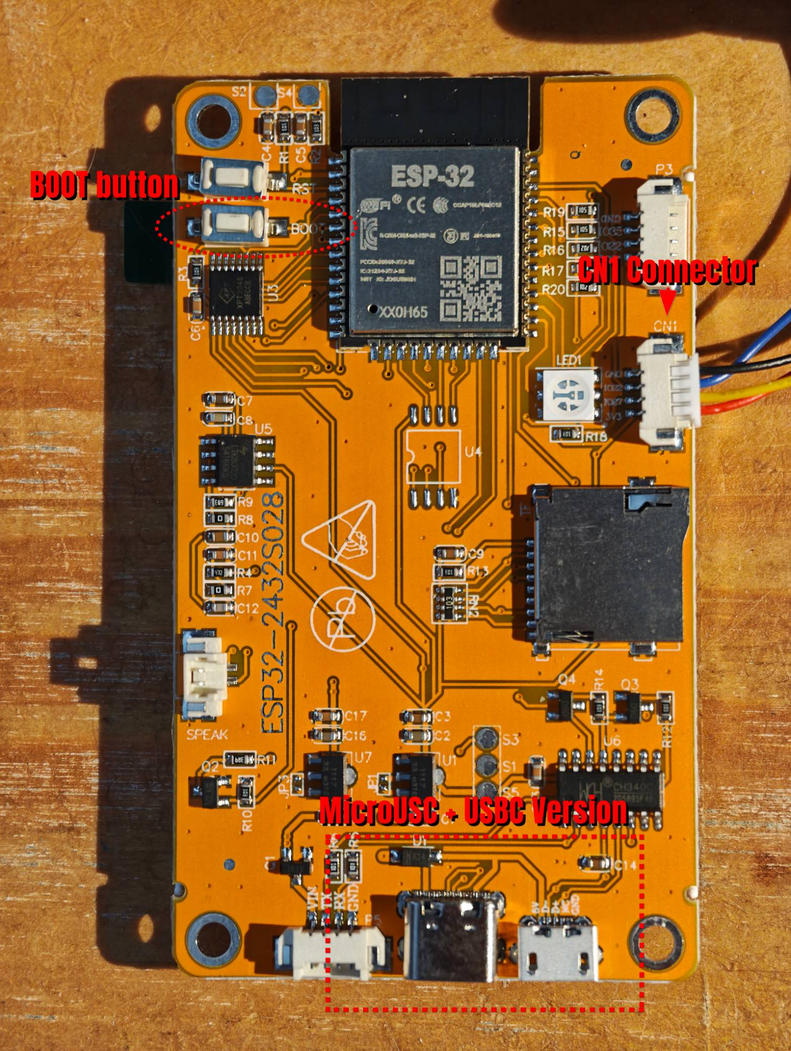
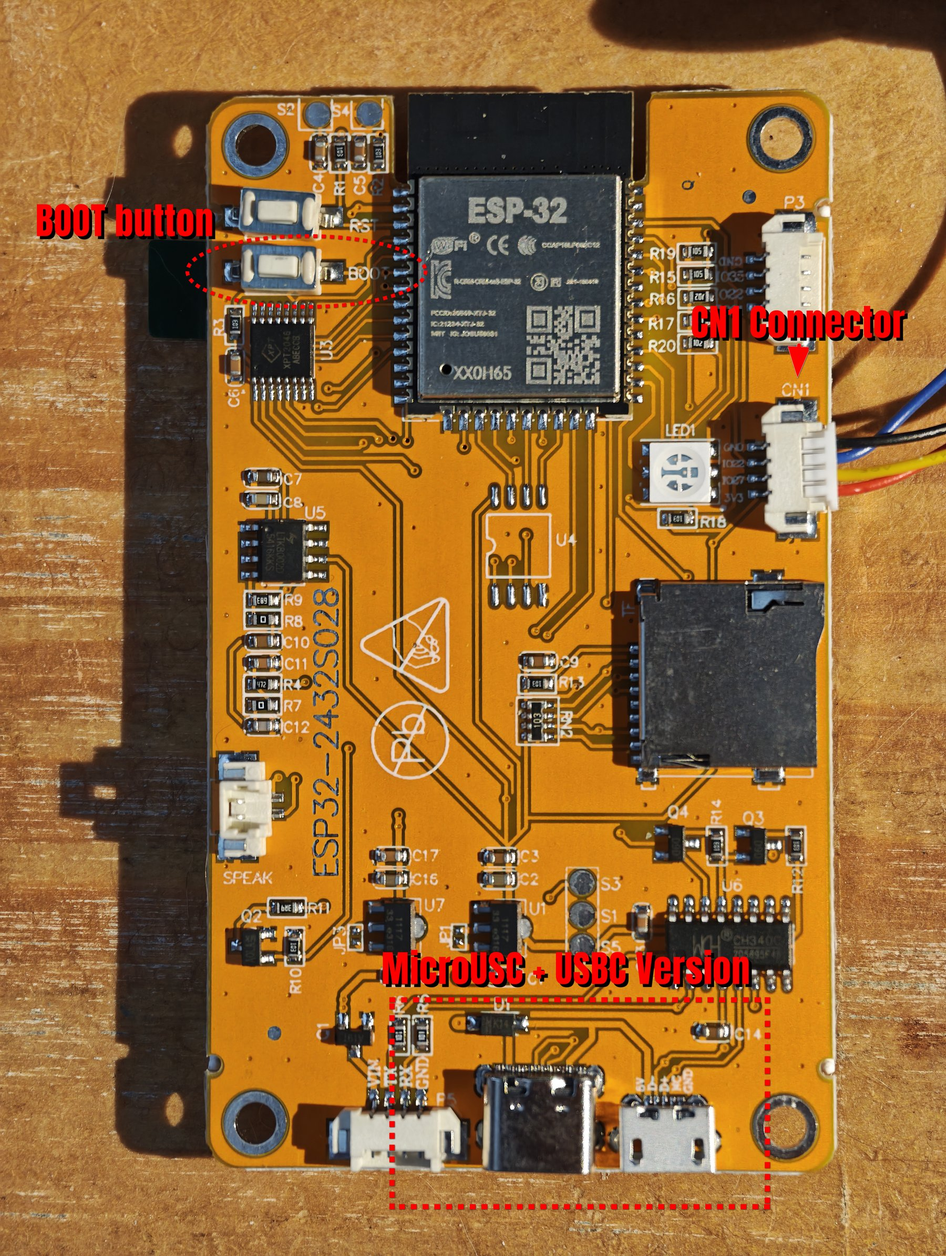
docs(cyd guide): higher-resolution board photo

diff --git a/docs/CYD_GUIDE.md b/docs/CYD_GUIDE.md
@@ -43,7 +43,7 @@ Allow about **45 minutes** the first time (most of it is installing software onc
 
 The back of the board, with the three things this guide refers to:
 
-[<img src="cyd_board.jpg" alt="Back of the CYD ESP32-2432S028R: BOOT button top left, CN1 connector on the right, USB-C and micro-USB sockets at the bottom" width="480">](cyd_board.jpg)
+[<img src="cyd_board.jpg" alt="Back of the CYD ESP32-2432S028R: BOOT button top left, CN1 connector on the right, USB-C and micro-USB sockets at the bottom" width="600">](cyd_board.jpg)
 
 - **BOOT button**: top left, just below RST. Only needed if flashing fails (step 11).
 - **CN1 connector**: right edge, pins marked GND · IO22 · IO27 · 3V3. The battery goes here.
